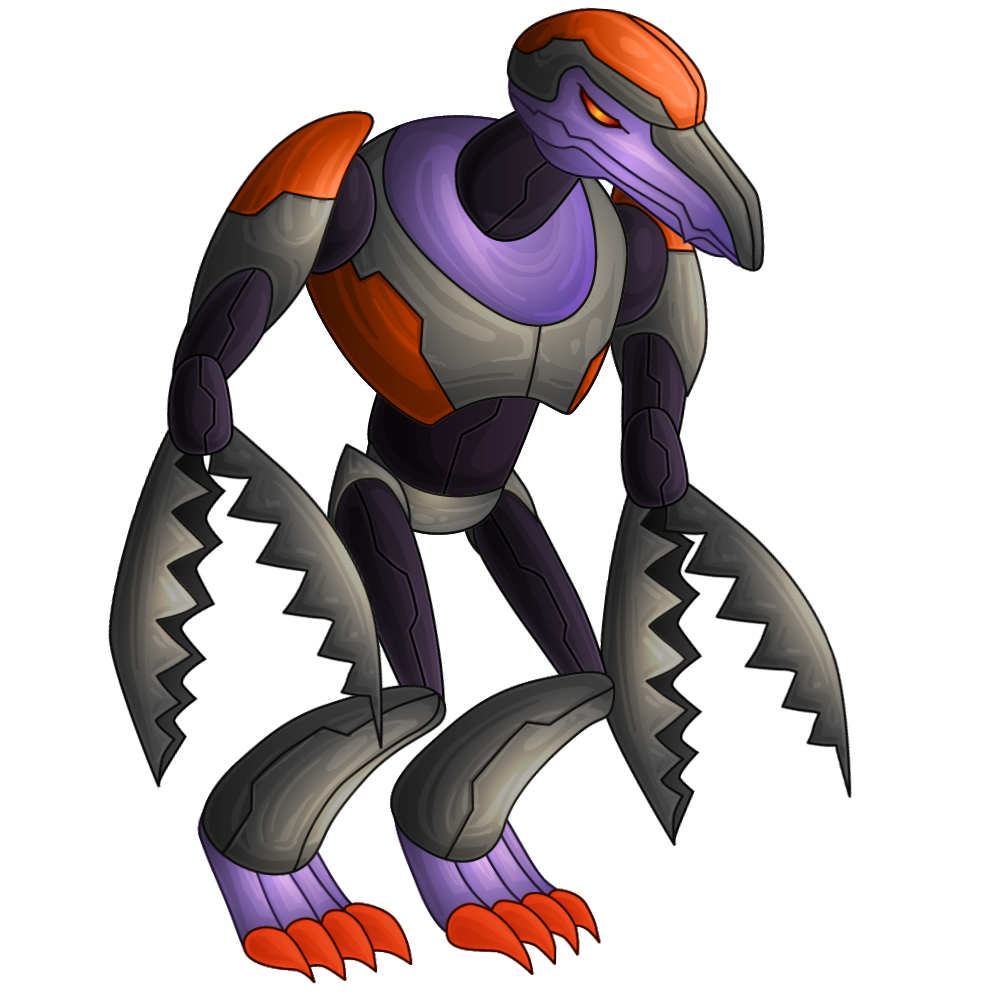
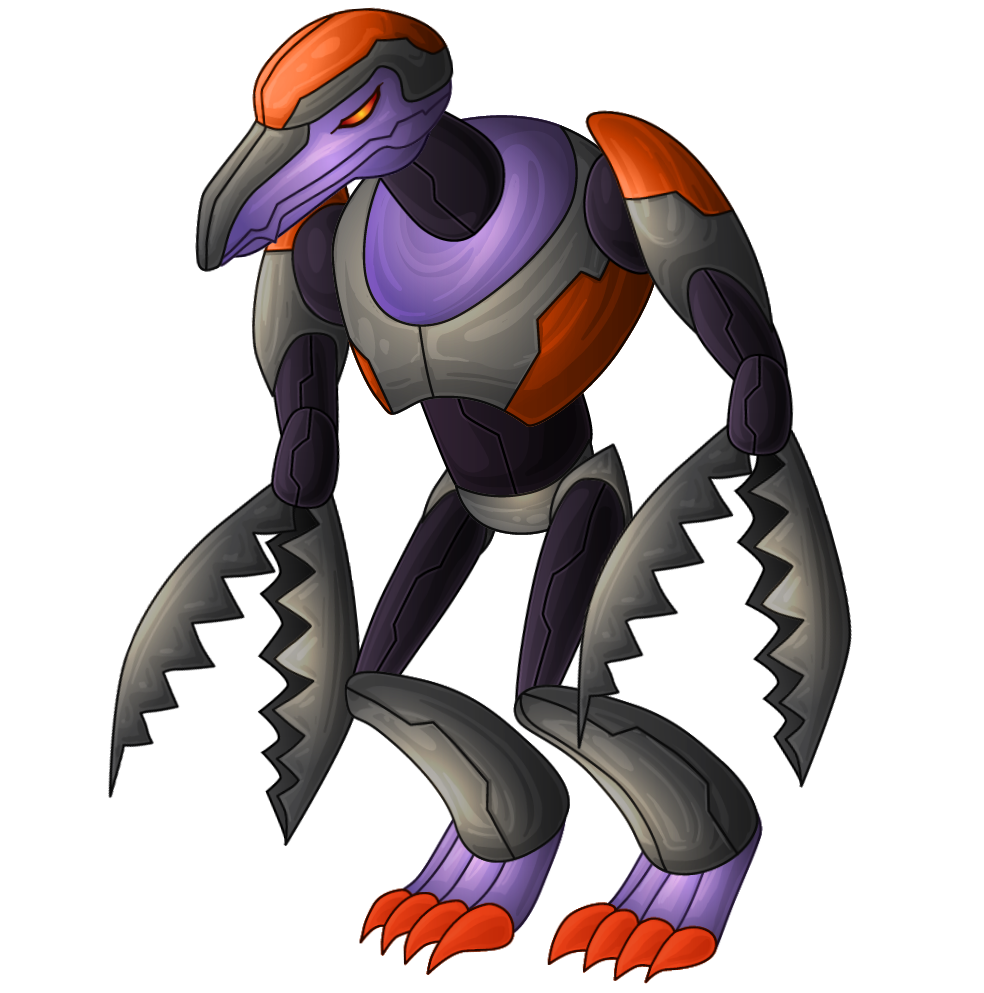
sprite animations

diff --git a/static/extras.js b/static/extras.js
@@ -1,35 +1,39 @@
-
-var comboMultiplier = 1;
-var comboCount = 0;
-var missCount = 0;
 var ww = window.innerWidth;
 var wh = window.innerHeight;
+const ANIM_FRAME_RATE = 10;
 var gamePieces = [];
-
-function calculateMultipliedPoints(pointValue) {
-	if (missCount > 1) {
-		comboCount = 0;
-		comboMultiplier = 1;
-		missCount = 0;
-	}
-	comboMultiplier += Math.floor(comboCount / 2) * .1;
-	return pointValue * comboMultiplier;
-}
+var leftSprites = [];
+var rightSprites = [];
+var leftActive = false;
+var rightActive = false;
+var leftIdlePath = "/assets/Robot_PNG/PNG_Animations/Robot1/01_Idle/idle_0";
+var leftActivePath = "/assets/Robot_PNG/PNG_Animations/Robot1/06_Attack/Attack_0";
+var rightIdlePath = "/assets/Robot_PNG/PNG_Animations/Robot3/01_Idle/idle_0";
+var rightActivePath = "/assets/Robot_PNG/PNG_Animations/Robot3/06_Attack/Attack_0";
 
 window.onload = function() {
 	startGame();
 }
 
+window.onresize = function() {
+
+}
+
 function startGame() {
 	gameArea.start();
-	var leftPlayer = new component(982, 1012, 10, 10, 
+	var leftPlayer = new component(982, 1012, window.innerWidth * .1, 200, 
 		"/assets/Robot_PNG/PNG_Animations/Robot1/01_idle/idle_000.png",
-		"image");
+		"image", 300);
 	gamePieces.push(leftPlayer);
+	var rightPlayer = new component(984, 993, window.innerWidth * .6, 200,
+		"/assets/Robot_PNG/PNG_Animations/Robot3/01_idle/idle_000.png",
+		"image", 300);
+	gamePieces.push(rightPlayer);
 }
 
 var gameArea = {
 	canvas: document.createElement("canvas"),
+	frameNo: 0,
 	start: function() {
 		this.canvas.width = window.innerWidth;
 		this.canvas.height = window.innerHeight;
@@ -42,12 +46,28 @@ var gameArea = {
 	}
 }
 
-function component(width, height, x, y, color, type) {
+function loadImages(path, frames, arr) {
+	for (var i = 0; i < frames; i++) {
+		var img = new Image();
+		if (i < 10) {
+			this.image.src = path + "0" + i + ".png";
+		}
+		else {
+			this.image.src = path + i + ".png";
+		}
+		arr.push(img);
+	}
+}
+
+function component(width, height, x, y, color, type, scale) {
 	this.type = type;
-	this.width = width;
-	this.height = height;
+	this.original = {width: width, height: height};
+	this.scale = scale / width;
+	this.width = this.scale * width;
+	this.height = this.scale * height;
 	this.x = x;
 	this.y = y;
+	this.currFrame = 0;
 	switch(this.type) {
 		case "image":
 			console.log("image");
@@ -73,15 +93,55 @@ function component(width, height, x, y, color, type) {
 				break;
 		}
 	}
+	this.resize = function(type, w, h) {
+		if (type == "animation") {
+			this.width = this.scale * w;
+			this.height = this.scale * h;
+		}
+	}
+	this.animate = function(path, frames, rate, w, h, flipped) {
+		this.resize("animation", w, h);
+		if (gameArea.frameNo % rate == 0) {
+			tmpFrame = this.currFrame;
+			if (flipped) {
+				tmpFrame = frames - this.currFrame - 1;
+				console.log(tmpFrame);
+			}
+			if (tmpFrame < 10) {
+				this.image.src = path + "0" + tmpFrame + ".png";
+			}
+			else {
+				this.image.src = path + tmpFrame + ".png";
+			}
+			this.currFrame = (this.currFrame + 1) % frames;
+		}
+	}
 }
 
 function updateGameArea() {
 	gameArea.clear();
+	gameArea.frameNo++;
 	updateGamePieces();
 }
 
 function updateGamePieces() {
 	for (var i = 0; i < gamePieces.length; i++) {
+		if (leftActive) {
+			gamePieces[0].animate(leftActivePath, 18, ANIM_FRAME_RATE, 
+				1532, 1315, false);
+		}
+		else {
+			gamePieces[0].animate(leftIdlePath, 9, ANIM_FRAME_RATE, 982, 
+				1012, false);
+		}
+		if (rightActive) {
+			gamePieces[1].animate(rightActivePath, 18, ANIM_FRAME_RATE, 
+				1533, 1319, false);
+		}
+		else {
+			gamePieces[1].animate(rightIdlePath, 9, ANIM_FRAME_RATE, 984, 
+				993, false);
+		}
 		gamePieces[i].update();
 	}
 }
